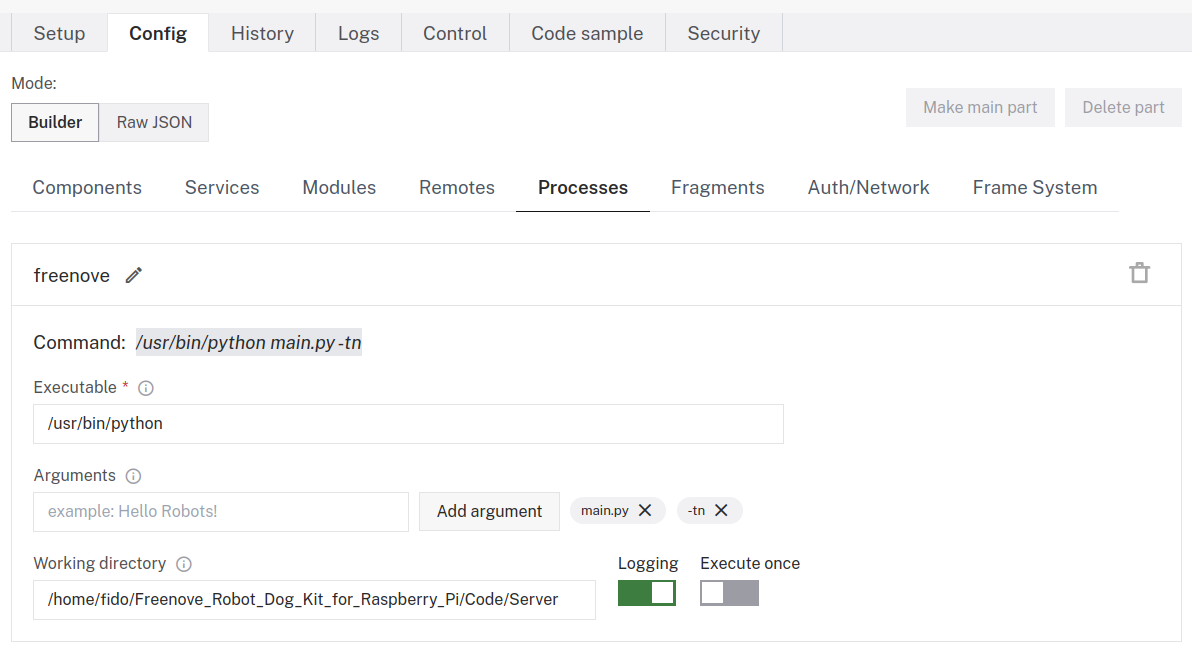
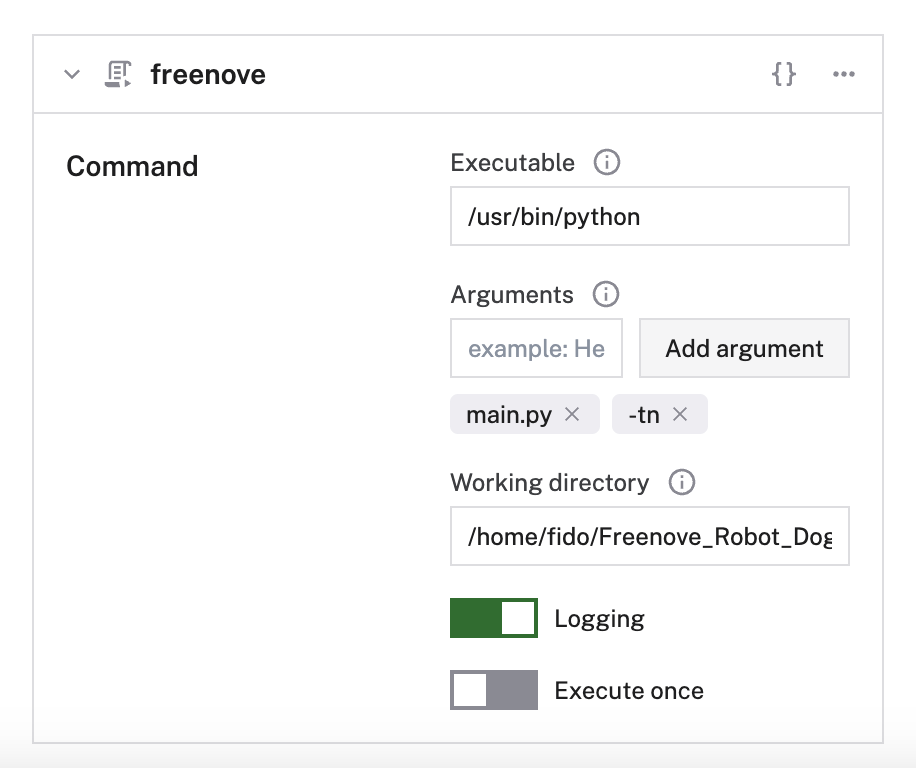
DOCS-1953: Update freenove base dog tutorial for R2D2 (#2890)

diff --git a/docs/tutorials/custom/custom-base-dog.md b/docs/tutorials/custom/custom-base-dog.md
@@ -19,7 +19,7 @@ languages: ["python"]
 viamresources: ["base", "camera", "custom"]
 level: "Intermediate"
 date: "2023-05-15"
-# updated: ""
+updated: "2024-05-07"
 cost: 190
 # SMEs: James Otting, Eric Daniels
 ---
@@ -31,11 +31,11 @@ Viam natively supports a wheeled base model, but if you have a quadruped or othe
 This tutorial demonstrates how to add a custom base using [this robot dog kit and its open source code](https://github.com/Freenove/Freenove_Robot_Dog_Kit_for_Raspberry_Pi) as an example.
 
 <div class="alignleft">
-  {{<gif webm_src="/tutorials/custom-base-dog/base-control-dog.webm" mp4_src="/tutorials/custom-base-dog/base-control-dog.mp4" alt="A quadrupedal robot comprised of small servos, black laser cut acrylic, and with ultrasonic sensors for eyes, walks forward, backward, and turns from side to side on a desk. Next to it is a laptop with the machine's Control tab on the Viam app open in a browser window." max-width="400px">}}
+  {{<gif webm_src="/tutorials/custom-base-dog/base-control-dog.webm" mp4_src="/tutorials/custom-base-dog/base-control-dog.mp4" alt="A quadrupedal robot comprised of small servos, black laser cut acrylic, and with ultrasonic sensors for eyes, walks forward, backward, and turns from side to side on a desk. Next to it is a laptop with the machine's control tab on the Viam app open in a browser window." max-width="400px">}}
 </div>
 
 By the end of the tutorial, you will be able to drive this dog around using the Viam base methods: `MoveStraight`, `Spin`, `SetPower`, `SetVelocity`, and `Stop`.
-You will also be able to use the **Control** tab in the Viam app to remotely drive the dog around using your keyboard while viewing the camera feed.
+You will also be able to use the **CONTROL** tab in the Viam app to remotely drive the dog around using your keyboard while viewing the camera feed.
 You’ll learn to implement a custom component type in Viam, and you’ll be equipped to implement other sorts of custom components in the future for whatever robots you dream up.
 
 ## Code used in this tutorial
@@ -141,7 +141,7 @@ This way, you can isolate any client-server connection problems if they exist.
 ### Create a connection test file
 
 In a convenient directory on your development machine, create a Python file and open it in your favorite IDE.
-We named ours "dog_test.py" and opened it in Visual Studio Code.
+We named ours <file>dog_test.py</file> and opened it in Visual Studio Code.
 
 Paste the following code snippet into the file you created:
 
@@ -168,8 +168,10 @@ Save the file.
 
 Go to the [machine page](https://app.viam.com/robots) for your robot dog that you created when installing `viam-server` on the Pi.
 
-In the banner towards the top of the page, the IP address of the robot dog Pi is displayed under **IPs**.
-Copy the IP to your clipboard.
+Open the part status dropdown in the top left of the page.
+If your machine is connected to the app, this should say **Live**.
+The IP address of the robot dog Pi is displayed under **IPs**.
+Click the copy icon to copy the IP address to your clipboard.
 Inside <file>dog_test.py</file>, replace `PASTE DOG IP ADDRESS HERE` with the copied IP.
 Save the file.
 
@@ -348,45 +350,38 @@ sudo chmod +x run.sh
 
 You need to tell your robot how to access the module you created.
 
-On the [Viam app](https://app.viam.com), go to your machine's **Config** tab.
-Click the **Modules** subtab.
+On the [Viam app](https://app.viam.com), go to your machine's **CONFIGURE** tab.
+Click the **+** (Create) button next to your main part in the left-hand menu and select **Local module**, then **Local module**.
 Name your module `my-custom-base`.
 Enter the path (for example, `/home/fido/robotdog/run.sh`) to your module's executable file in the **Executable path** field.
-Click **Save Config** at the bottom of the page.
+Click **Save** at the top right of the page to save your config.
 
 ![Screenshot of the Viam app Config tab with the Modules subtab open, showing my-custom-base configured.](/tutorials/custom-base-dog/module-config.png)
 
 ## Configure the components
 
 Now that the custom base code is set up, you need to configure all your hardware components.
-Navigate to the **Components** subtab of your machine's **Config** tab.
 
 ### Configure the camera
 
 Configure the ribbon camera on the dog as a `webcam` following our [webcam documentation](/components/camera/webcam/).
 
-Click **Save config**.
+Click **Save**.
 
 ### Configure the base
 
-Because your custom base relies on a local module, you need to use raw JSON to configure your modular resource.
-Use the **Mode** selector in the upper-left corner of the **Config** tab to switch to **Raw JSON** mode.
+Now, add the local base component from the local module.
+Click the **+** (Create) button next to your main part in the left-hand menu and select **Local module**, then **Local component**.
+Select `base` as the **Type**.
+Name your component `quadruped`.
+For the colon-delimited triplet, enter `viamlabs:base:robotdog`.
 
-Locate the `"components": []` portion of the config file.
-At the end of your camera configuration, add a comma and then add the following base configuration:
+Then, in the configuration panel that appears for the local base, copy and paste the follow attributes:
 
 ```json
 {
-  "namespace": "rdk",
-  "name": "quadruped",
-  "type": "base",
-  "model": "viamlabs:base:robotdog",
-  "attributes": {
-    "ip_address": "<HOSTNAME>.local",
-
-    "port": 5001
-  },
-  "depends_on": []
+  "ip_address": "<HOSTNAME>.local",
+  "port": 5001
 }
 ```
 
@@ -396,28 +391,22 @@ If this doesn't work, you can instead try using the IP address of the machine wh
 If you are using a port other than `5001`, edit the `port` attribute.
 `5001` is the default port for sending and receiving instructions to and from the Freenove server.
 
-Click **Save config**.
+Click **Save**.
 
-Your raw JSON configuration should look similar to the following:
+Your local component configuration should look similar to the following:
 
-![Raw JSON mode on the Config tab, showing the components and modules sections of the machine's raw JSON config.](/tutorials/custom-base-dog/raw-json.png)
-
-Toggle back to **Builder** mode and make sure a configuration panel has been generated:
-
-![Screenshot of the Viam app CONFIG tab with the Config subtab open, showing quadruped configured.](/tutorials/custom-base-dog/config-modular-component.png)
-
-If yours doesn't resemble the following, go back to the raw JSON and double-check your JSON formatting.
+![CONFIGURE tab, showing the attributes editor of the `quadruped` local base component.](/tutorials/custom-base-dog/quadruped-config.png)
 
 ## Start the Freenove server
 
 To operate the dog, you need to start the Freenove robot dog server (which you saved as <file>/home/fido/Freenove_Robot_Dog_Kit_for_Raspberry_Pi/Code/Server/main.py</file>).
 
-You can configure a [_process_](/build/configure/processes/) to automatically start the server on boot so it is ready to receive commands from `viam-server`.
+Configure a [_process_](/build/configure/processes/) to automatically start the server on boot so it is ready to receive commands from `viam-server`.
 
-Navigate to the **Processes** subtab of your machine's **Config** tab.
+Click the **+** (Create) button next to your main part in the left-hand menu and select **Process**.
 
-Create a new process and give it a name (for example `freenove`).
-Fill out the config panel as follows:
+In the process configuration panel that appears, click on the name in the top left corner and rename it to `freenove`.
+Fill out the configuration panel as follows:
 
 - **Executable**: The path to Python on your Pi, for example `/usr/bin/python`.
   If you're not sure what this path should be, run `which python` on your Pi command line to find it.
@@ -428,11 +417,11 @@ Fill out the config panel as follows:
 - **Logging**: Toggle to the **on** position so you can view logs for this server process.
 - **Execute once**: Leave this **off** so that the Freenove server will continue to run, and will restart if it crashes.
 
-Click **Save config** at the bottom of the window.
+Click **Save**.
 
 ![Screenshot of the Processes subtab of the Config tab, showing a process configured as detailed above.](/tutorials/custom-base-dog/process-config.png)
 
-{{% expand "Click to see what the processes config looks like in Raw JSON mode." %}}
+{{% expand "Click to see what the processes config looks like in JSON mode." %}}
 
 ```json
   "processes": [
@@ -467,11 +456,11 @@ sudo python main.py -tn
 
 ## Driving the robot from the Viam app
 
-Navigate to the **Control** tab.
+Navigate to the **CONTROL** tab.
 
 Click the **quadruped** component panel to expand it and reveal the controls.
 
-![Screenshot of the Control tab with the custom base card expanded to reveal arrow control buttons.](/tutorials/custom-base-dog/control-tab.png)
+![Screenshot of the CONTROL tab with the custom base card expanded to reveal arrow control buttons.](/tutorials/custom-base-dog/control-tab.png)
 
 1. Enable the camera stream from the **Select Cameras** dropdown.
 2. Toggle the **Keyboard Disabled** switch to **Keyboard Enabled** to use the WASD keys on your keyboard.
@@ -518,7 +507,7 @@ Depending on the speed of your server connection, you may need to hold down the 
 
 In this tutorial you learned how to implement a custom component model and control it using the Viam app.
 You learned about configuring modules and processes.
-You drove the robot dog around using the Viam **Control** tab.
+You drove the robot dog around using the Viam **CONTROL** tab.
 
 To add more functionality, try using the generic `do_command` method to add different behaviors to your robot dog.
 You could also use the Viam [vision service](/ml/vision/) with the robot dog's [camera component](/components/camera/).
